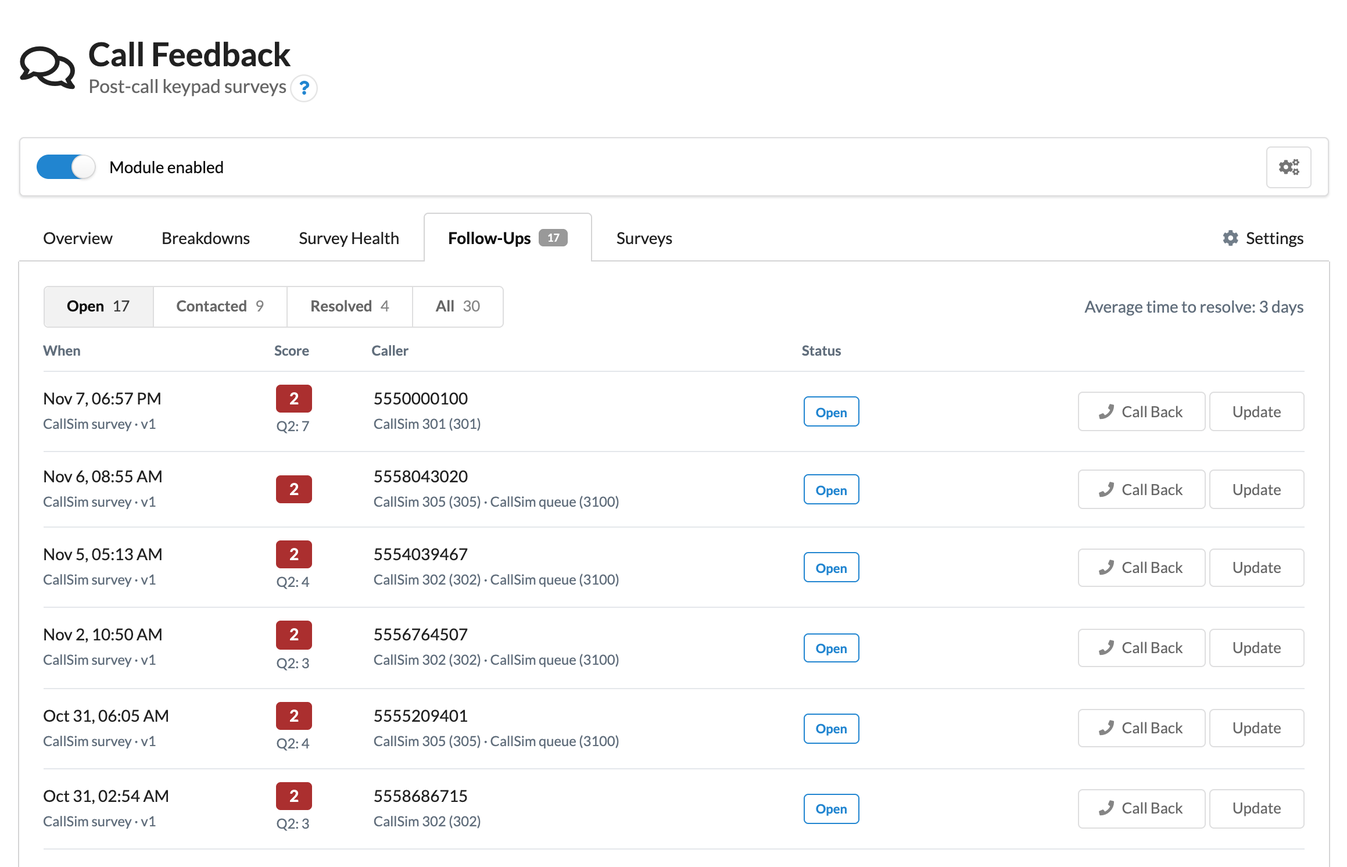
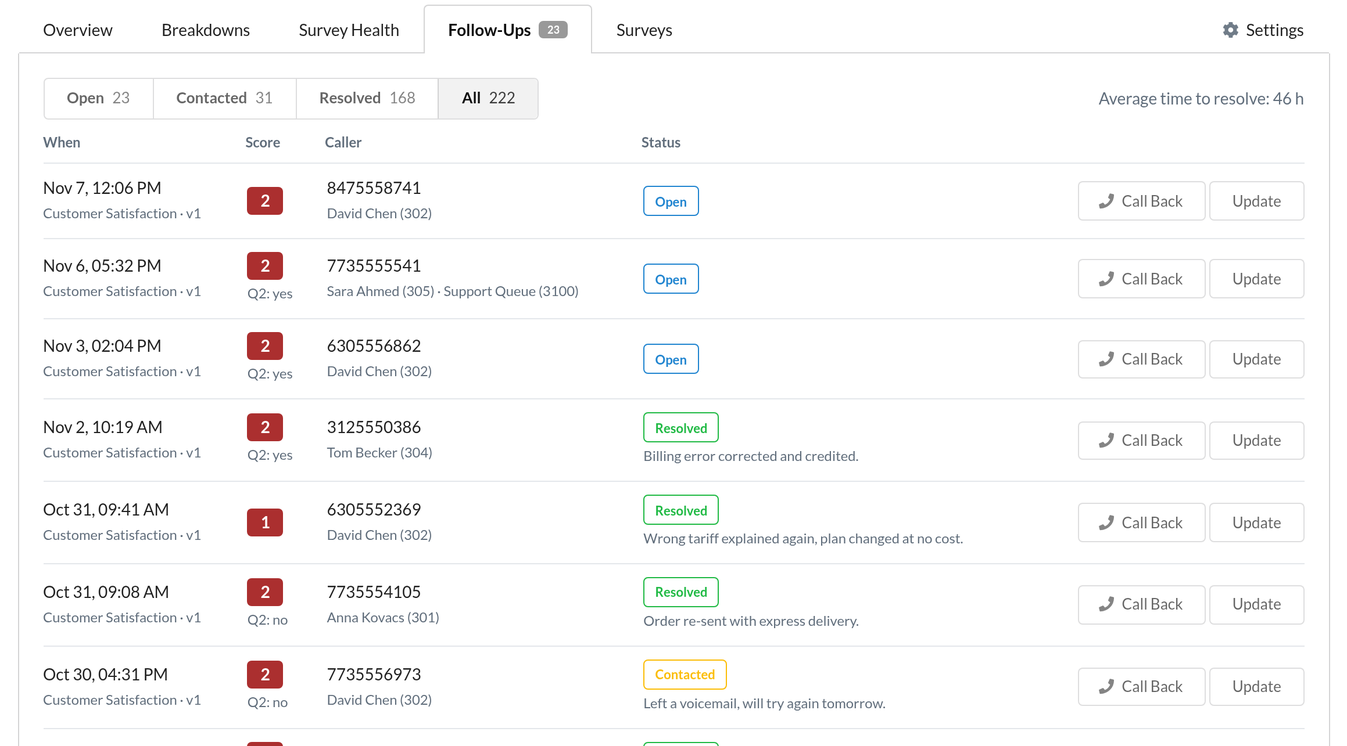
Refresh README screenshots and copy; tidy follow-up dialog details
The README screenshots came from the test bench: harness names such as
"CallSim 301" and "CallSim survey", a half-finished "Testing Survey",
day-first dates beside month-first chart labels, follow-ups at 3 a.m.,
an empty Settings form, and an editor showing a greyed-out live version
with custom prompts. They did not show the built-in prompts, the
templates or the play buttons at all.

Screenshots (docs/screenshots):
- Retaken on a test PBX with six months of simulated calls under
  made-up agent, queue and line names, during business hours, with a
  score that improves over time, so the Overview shows its change
  against the previous period.
- Taken in a browser set to US English, so dates read month first
  like the chart labels.
- All but the Overview start at the tab bar, as in the Call Insights
  README, so the grid shows each tab's content rather than the page
  header repeated eight times.
- Survey Health now includes the calls-not-surveyed-by-rule table;
  Follow-Ups shows every status with notes; Settings shows example
  alert addresses, call-back prefixes, excluded numbers and the
  delete-a-number section.
- The editor shot is a draft made from the NPS template with the
  prompt menu open, showing a play button on each built-in prompt.
- New: new-survey.png, the New Survey form with its templates.

README:
- New "What the caller hears" section quoting the built-in English
  prompts of the CSAT template, plus what happens on a wrong key or a
[…]

diff --git a/public/assets/js/src/call-feedback.js b/public/assets/js/src/call-feedback.js
@@ -148,7 +148,8 @@ const languageLabel = (l) => (LANGUAGES[l] ? label(LANGUAGES[l]) : l);
 const problemLabel = (key) => t(key, PROBLEMS[key] || key);
 /** The admin cabinet's language, which the page sets on <html>; dates and numbers follow it, not the browser's. */
 const LOCALE = document.documentElement.lang || undefined;
-const dateTime = (epoch) => (epoch ? new Date(epoch * 1000).toLocaleString(LOCALE) : '—');
+/** "6 Nov 2026, 14:05": the list's format with the year, for the follow-up dialog. */
+const dateTime = (epoch) => (epoch ? new Date(epoch * 1000).toLocaleString(LOCALE, { day: 'numeric', month: 'short', year: 'numeric', hour: '2-digit', minute: '2-digit' }) : '—');
 /** "6 Nov, 14:05": short enough for a table column. */
 const shortDateTime = (epoch) => (epoch ? new Date(epoch * 1000).toLocaleString(LOCALE, { day: 'numeric', month: 'short', hour: '2-digit', minute: '2-digit' }) : '—');
 const shortDate = (iso) => new Date(`${iso}T00:00:00`).toLocaleDateString(LOCALE, { day: 'numeric', month: 'short' });
@@ -828,11 +829,14 @@ function testCallList(data) {
         el('td', { text: shortDateTime(c.ended_at) }),
         el('td', { text: c.caller_num || '' }),
         el('td', { text: Object.keys(c.answers).length === 0 ? t('cf_NoKeys', 'No keys pressed')
-          : Object.keys(c.answers).sort().map((pos) => `${t('cf_Q', 'Q')}${pos}: ${answerText(questions[pos], c.answers[pos])}`).join(' · ') })))));
+          : Object.keys(c.answers).sort().map((pos) => answerPart((questions[pos] || {}).scale, pos, answerText(questions[pos], c.answers[pos]))).join(' · ') })))));
 }
 
 /** A follow-up's answer to one question, with yes/no shown as words. */
 const followAnswer = (f, pos) => answerText({ scale: (f.scales || {})[pos] }, f.answers[pos]);
+
+/** "NPS: 7" for a scored question, "Q2: yes" for a yes/no one. */
+const answerPart = (scale, pos, text) => `${METRICS[scale] ? metricName(scale) : `${t('cf_Q', 'Q')}${pos}`}: ${text}`;
 
 function answerText(question, value) {
   if (question && question.scale === 'yesno') return value === 1 ? t('cf_Yes', 'yes') : t('cf_No', 'no');
@@ -1042,7 +1046,7 @@ function loadSettings() {
           el('tbody', {}, data.exclusions.map((x) => el('tr', {},
             el('td', { text: x.number }),
             el('td', { class: 'cf-muted', text: x.note || '' }),
-            el('td', { class: 'cf-muted cf-nowrap', text: x.created_at ? new Date(x.created_at * 1000).toLocaleDateString(LOCALE) : '' }),
+            el('td', { class: 'cf-muted cf-nowrap', text: x.created_at ? new Date(x.created_at * 1000).toLocaleDateString(LOCALE, { day: 'numeric', month: 'short', year: 'numeric' }) : '' }),
             el('td', { class: 'cf-num' }, el('button', { class: 'ui basic mini button', type: 'button', text: t('cf_Remove', 'Remove'),
               onclick: () => post('removeExclusion', { id: x.id }).then(() => loadSettings(),
                 (xhr) => message(exclusionsResult, 'negative', saveFailed(xhr))) }))))))));
@@ -1481,7 +1485,7 @@ function loadFollowUps(page = 1) {
       return;
     }
     const rows = data.rows.map((f) => {
-      const others = Object.keys(f.answers).filter((pos) => pos !== '1').sort().map((pos) => `${t('cf_Q', 'Q')}${pos}: ${followAnswer(f, pos)}`).join(' · ');
+      const others = Object.keys(f.answers).filter((pos) => pos !== '1').sort().map((pos) => answerPart((f.scales || {})[pos], pos, followAnswer(f, pos))).join(' · ');
       const who = [f.agent ? nameOf('agent', f.agent) : '', f.queue ? nameOf('queue', f.queue) : ''].filter(Boolean).join(' · ');
       return el('tr', {},
         el('td', {}, el('div', { class: 'cf-nowrap', text: shortDateTime(f.ended_at) }), el('div', { class: 'cf-sub-line', text: `${f.survey_name} · ${t('cf_VersionShort', 'v')}${f.survey_version}` })),
@@ -1514,7 +1518,9 @@ function callBackSection(f) {
   if (f.callback === 'none') return el('p', { class: 'cf-muted', text: t('cf_CallBackNoNumberShort', 'No number to call back.') });
   const result = el('div');
   const extensions = extensionOptions();
-  const ext = select('cf-cb-ext', extensions, extensions.length ? extensions[0][0] : '');
+  // The agent who took the call rings first: they know the customer.
+  const first = extensions.some(([number]) => number === f.agent) ? f.agent : (extensions.length ? extensions[0][0] : '');
+  const ext = select('cf-cb-ext', extensions, first);
   const typed = f.callback === 'typed' ? el('input', { type: 'text', id: 'cf-cb-typed', maxlength: '40', autocomplete: 'off' }) : null;
   const go = () => {
     const extLabel = ext.selectedOptions[0] ? ext.selectedOptions[0].textContent : ext.value;
@@ -1539,7 +1545,7 @@ function openFollowUp(f, page, focusCallBack) {
   state.followUp = { f, page };
   const fact = (term, value) => (value ? [el('dt', { text: term }), el('dd', { text: value })] : null);
   const answers = Object.keys(f.answers).sort().map((pos) => (pos === '1'
-    ? `${metricName(f.scale)}: ${f.answers[pos]}` : `${t('cf_Q', 'Q')}${pos}: ${followAnswer(f, pos)}`)).join(' · ');
+    ? `${metricName(f.scale)}: ${f.answers[pos]}` : answerPart((f.scales || {})[pos], pos, followAnswer(f, pos)))).join(' · ');
   const statusResult = el('div', { id: 'cf-modal-result' });
   $id('cf-modal-title').textContent = sub(t('cf_FollowUpTitle', 'Follow-Up: {caller}'), { caller: f.caller_num || t('cf_Withheld', 'Withheld') });
   fill($id('cf-modal-content'),

diff --git a/public/assets/js/call-feedback.js b/public/assets/js/call-feedback.js
@@ -117,7 +117,7 @@
   var languageLabel = (l) => LANGUAGES[l] ? label(LANGUAGES[l]) : l;
   var problemLabel = (key) => t(key, PROBLEMS[key] || key);
   var LOCALE = document.documentElement.lang || void 0;
-  var dateTime = (epoch) => epoch ? new Date(epoch * 1e3).toLocaleString(LOCALE) : "\u2014";
+  var dateTime = (epoch) => epoch ? new Date(epoch * 1e3).toLocaleString(LOCALE, { day: "numeric", month: "short", year: "numeric", hour: "2-digit", minute: "2-digit" }) : "\u2014";
   var shortDateTime = (epoch) => epoch ? new Date(epoch * 1e3).toLocaleString(LOCALE, { day: "numeric", month: "short", hour: "2-digit", minute: "2-digit" }) : "\u2014";
   var shortDate = (iso) => (/* @__PURE__ */ new Date(`${iso}T00:00:00`)).toLocaleDateString(LOCALE, { day: "numeric", month: "short" });
   var count = (n) => Number(n).toLocaleString(LOCALE);
@@ -851,11 +851,12 @@
         {},
         el("td", { text: shortDateTime(c.ended_at) }),
         el("td", { text: c.caller_num || "" }),
-        el("td", { text: Object.keys(c.answers).length === 0 ? t("cf_NoKeys", "No keys pressed") : Object.keys(c.answers).sort().map((pos) => `${t("cf_Q", "Q")}${pos}: ${answerText(questions[pos], c.answers[pos])}`).join(" \xB7 ") })
+        el("td", { text: Object.keys(c.answers).length === 0 ? t("cf_NoKeys", "No keys pressed") : Object.keys(c.answers).sort().map((pos) => answerPart((questions[pos] || {}).scale, pos, answerText(questions[pos], c.answers[pos]))).join(" \xB7 ") })
       ))
     ));
   }
   var followAnswer = (f, pos) => answerText({ scale: (f.scales || {})[pos] }, f.answers[pos]);
+  var answerPart = (scale, pos, text) => `${METRICS[scale] ? metricName(scale) : `${t("cf_Q", "Q")}${pos}`}: ${text}`;
   function answerText(question, value) {
     if (question && question.scale === "yesno") return value === 1 ? t("cf_Yes", "yes") : t("cf_No", "no");
     return String(value);
@@ -1146,7 +1147,7 @@
             {},
             el("td", { text: x.number }),
             el("td", { class: "cf-muted", text: x.note || "" }),
-            el("td", { class: "cf-muted cf-nowrap", text: x.created_at ? new Date(x.created_at * 1e3).toLocaleDateString(LOCALE) : "" }),
+            el("td", { class: "cf-muted cf-nowrap", text: x.created_at ? new Date(x.created_at * 1e3).toLocaleDateString(LOCALE, { day: "numeric", month: "short", year: "numeric" }) : "" }),
             el("td", { class: "cf-num" }, el("button", {
               class: "ui basic mini button",
               type: "button",
@@ -1672,7 +1673,7 @@
       }
       const rows = data.rows.map((f) => {
         var _a;
-        const others = Object.keys(f.answers).filter((pos) => pos !== "1").sort().map((pos) => `${t("cf_Q", "Q")}${pos}: ${followAnswer(f, pos)}`).join(" \xB7 ");
+        const others = Object.keys(f.answers).filter((pos) => pos !== "1").sort().map((pos) => answerPart((f.scales || {})[pos], pos, followAnswer(f, pos))).join(" \xB7 ");
         const who = [f.agent ? nameOf("agent", f.agent) : "", f.queue ? nameOf("queue", f.queue) : ""].filter(Boolean).join(" \xB7 ");
         return el(
           "tr",
@@ -1731,7 +1732,8 @@
     if (f.callback === "none") return el("p", { class: "cf-muted", text: t("cf_CallBackNoNumberShort", "No number to call back.") });
     const result = el("div");
     const extensions = extensionOptions();
-    const ext = select("cf-cb-ext", extensions, extensions.length ? extensions[0][0] : "");
+    const first = extensions.some(([number]) => number === f.agent) ? f.agent : extensions.length ? extensions[0][0] : "";
+    const ext = select("cf-cb-ext", extensions, first);
     const typed = f.callback === "typed" ? el("input", { type: "text", id: "cf-cb-typed", maxlength: "40", autocomplete: "off" }) : null;
     const go = () => {
       const extLabel = ext.selectedOptions[0] ? ext.selectedOptions[0].textContent : ext.value;
@@ -1766,7 +1768,7 @@
   function openFollowUp(f, page, focusCallBack) {
     state.followUp = { f, page };
     const fact = (term, value) => value ? [el("dt", { text: term }), el("dd", { text: value })] : null;
-    const answers = Object.keys(f.answers).sort().map((pos) => pos === "1" ? `${metricName(f.scale)}: ${f.answers[pos]}` : `${t("cf_Q", "Q")}${pos}: ${followAnswer(f, pos)}`).join(" \xB7 ");
+    const answers = Object.keys(f.answers).sort().map((pos) => pos === "1" ? `${metricName(f.scale)}: ${f.answers[pos]}` : answerPart((f.scales || {})[pos], pos, followAnswer(f, pos))).join(" \xB7 ");
     const statusResult = el("div", { id: "cf-modal-result" });
     $id("cf-modal-title").textContent = sub(t("cf_FollowUpTitle", "Follow-Up: {caller}"), { caller: f.caller_num || t("cf_Withheld", "Withheld") });
     fill(

diff --git a/README.md b/README.md
@@ -6,58 +6,78 @@ A MikoPBX extension module that asks your callers how the call went. When the ag
 
 > **Status: in development, not released yet.** It works on MikoPBX 2026.6.34 and is tested with real calls, but it isn't ready for production use. Releases will be on the [Releases page](https://github.com/eneuen/ModuleCallFeedback/releases), and what changes in each version is in [CHANGELOG.md](CHANGELOG.md).
 
-![The Overview tab: the CSAT score, response and completion rates, open follow-ups, and the score over time](docs/screenshots/overview.png)
+![The Overview tab: the CSAT score and its change from the previous period, the response rate, the share of issues resolved, open follow-ups, and the score by week](docs/screenshots/overview.png)
 
 ## Features
 
-- **Surveys** on chosen incoming and outgoing routes: up to three questions on fixed scales (CSAT, NPS, CES, yes/no), built-in English and Russian prompts or your own recordings, and rules for minimum talk time, days and hours, the share of calls to survey and how often the same number is asked. A test call plays the survey to an extension before it goes live.
+- **Surveys** on chosen incoming and outgoing routes: up to three questions on fixed scales (CSAT, NPS, CES, yes/no), and rules for minimum talk time, days and hours, the share of calls to survey and how often the same number is asked. A test call plays the survey to an extension before it goes live.
+- **Prompts included:** recorded prompts in English and Russian for the intro, the CSAT, NPS and CES questions, "was your issue resolved?", an invalid key and a thank-you, so there is nothing to record to get started. Your own recordings from **Sound files** work too.
+- **Listen before you choose:** every prompt in the survey editor has a play button, in the menu and beside it, so you can hear a prompt in the browser before choosing it.
 - **Results:** the headline score with its change from the previous period, response and resolution rates, the score over time, and the score by agent, queue, line, direction, hour, weekday, time to answer or talk time. Scores stay hidden until a group has enough responses.
 - **Survey health:** how many eligible calls were surveyed, how many callers reached the end, the question where most of them leave, and how many calls each rule left out.
-- **Follow-ups:** a low score opens a case with an email alert. Cases have a status and a note, and a call-back rings an agent's extension and then the customer, with safeguards against calling expensive numbers.
+- **Follow-ups:** a low score opens a case with an email alert. Cases have a status and a note, and a call-back rings the agent who took the call (or another extension) and then the customer, with safeguards against calling expensive numbers.
 - **Versions:** once a survey is live its wording is fixed, so results stay comparable. Changing it means a new version, and versions are never averaged together.
 - **Exports:** CSV of any results table, PNG of any chart, and an optional daily or weekly summary email.
-- **Ready to try:** a new install starts with an example survey that uses the built-in prompts, so you can hear a survey on your own phone a minute after installing. New surveys can start from the same kind of template: CSAT, NPS or CES, each followed by "was your issue resolved?".
+- **Templates:** a new install starts with an example survey, so you can hear a survey on your own phone a minute after installing. New surveys can start from a template too: CSAT, NPS or CES, each followed by "was your issue resolved?", with the prompts already chosen.
 - **Languages:** English and Russian, following the admin cabinet's language. Each survey plays its prompts in English or Russian.
+
+## What the caller hears
+
+With the CSAT template and the built-in English prompts, once the agent hangs up:
+
+> Thank you for calling. Please stay on the line for a short survey about your call.
+>
+> How satisfied were you with this call? Press 1 for very dissatisfied, up to 5 for very satisfied.
+>
+> Was your issue resolved? Press 1 for yes, or 2 for no.
+>
+> Thank you for your feedback. Goodbye.
+
+A wrong key plays "Sorry, that key is not valid." and asks again. The caller can hang up at any point; the answers given so far are kept. The NPS template asks for 0 to 10 ("for 10, press 1 then 0"), and the CES template asks how easy it was to get what they needed.
 
 ## Screenshots
 
-The screenshots show a test PBX with simulated calls.
+The screenshots show a test PBX with six months of simulated calls; the names and numbers are made up.
 
 <table>
   <tr>
     <td width="50%" valign="top">
-      <a href="docs/screenshots/survey-health.png"><img src="docs/screenshots/survey-health.png" alt="Survey Health: eligible calls, share surveyed, share reaching the end, and where callers leave the survey"></a>
-      <br><b>Survey Health.</b> How many eligible calls were surveyed, how far callers got, and the question most of them leave at.
-    </td>
-    <td width="50%" valign="top">
       <a href="docs/screenshots/breakdowns.png"><img src="docs/screenshots/breakdowns.png" alt="Breakdowns: the CSAT score, average and responses per agent"></a>
       <br><b>Breakdowns.</b> The score per agent, queue, line, direction, hour, weekday, time to answer or talk time.
+    </td>
+    <td width="50%" valign="top">
+      <a href="docs/screenshots/survey-health.png"><img src="docs/screenshots/survey-health.png" alt="Survey Health: eligible calls, share surveyed, share reaching the end, where callers leave, and calls not surveyed by rule"></a>
+      <br><b>Survey Health.</b> How many eligible calls were surveyed, how far callers got, the question most of them leave at, and how many calls each rule left out.
     </td>
   </tr>
   <tr>
     <td width="50%" valign="top">
-      <a href="docs/screenshots/follow-ups.png"><img src="docs/screenshots/follow-ups.png" alt="Follow-Ups: low-scoring calls with the score, caller, agent, queue and status"></a>
-      <br><b>Follow-Ups.</b> Every call with a low score, filtered by status, ready to call back or update.
+      <a href="docs/screenshots/follow-ups.png"><img src="docs/screenshots/follow-ups.png" alt="Follow-Ups: low-scoring calls with the score, caller, agent, queue, status and note"></a>
+      <br><b>Follow-Ups.</b> Every call with a low score, with its status and note, filtered by status, ready to call back or update.
     </td>
     <td width="50%" valign="top">
-      <a href="docs/screenshots/follow-up-dialog.png"><img src="docs/screenshots/follow-up-dialog.png" alt="A follow-up: the call's details, the call-back controls, and the status and note"></a>
-      <br><b>A follow-up.</b> The call's answers, agent and queue; a call-back through your outgoing routes; and the case's status and note.
+      <a href="docs/screenshots/follow-up-dialog.png"><img src="docs/screenshots/follow-up-dialog.png" alt="A follow-up: the call's answers and agent, earlier call-backs, the call-back controls, and the status and note"></a>
+      <br><b>A follow-up.</b> The call's answers and agent, earlier call-backs, a call-back that rings the agent first, and the case's status and note.
     </td>
   </tr>
   <tr>
     <td width="50%" valign="top">
       <a href="docs/screenshots/surveys.png"><img src="docs/screenshots/surveys.png" alt="Surveys: each survey with its status, routes and responses in the last 7 days"></a>
-      <br><b>Surveys.</b> Each survey with its status, the routes it runs on, and how many callers answered in the last 7 days.
+      <br><b>Surveys.</b> Each survey with its status, what it still needs before it can go live, the routes it runs on, and how many callers answered in the last 7 days.
     </td>
     <td width="50%" valign="top">
-      <a href="docs/screenshots/settings.png"><img src="docs/screenshots/settings.png" alt="Settings: follow-up thresholds, alert and summary emails, call-back prefixes and limits"></a>
-      <br><b>Settings.</b> The scores that open a follow-up, alert and summary emails, one-click call-back prefixes, and limits.
+      <a href="docs/screenshots/new-survey.png"><img src="docs/screenshots/new-survey.png" alt="New Survey: start from a CSAT, NPS or CES template or a blank survey, then a name and language"></a>
+      <br><b>New Survey.</b> Start from a template with the built-in prompts already chosen, or from a blank survey.
     </td>
   </tr>
   <tr>
-    <td colspan="2" valign="top">
-      <a href="docs/screenshots/survey-editor.png"><img src="docs/screenshots/survey-editor.png" alt="The survey editor: name, language, prompts and questions of a live survey version"></a>
-      <br><b>The survey editor.</b> Prompts and questions, then the rules, routes and a test call. A live version's wording is fixed; New Version starts a draft to change it.
+    <td width="50%" valign="top">
+      <a href="docs/screenshots/survey-editor.png"><img src="docs/screenshots/survey-editor.png" alt="The survey editor: a draft from the NPS template, with the prompt menu open and a play button on every prompt"></a>
+      <br><b>The survey editor.</b> A draft from the NPS template. Every prompt has a play button, in the menu and beside it; the box at the top lists what's left before it can go live.
+    </td>
+    <td width="50%" valign="top">
+      <a href="docs/screenshots/settings.png"><img src="docs/screenshots/settings.png" alt="Settings: follow-up thresholds, alert and summary emails, call-back prefixes, limits, excluded numbers and deleting a number's data"></a>
+      <br><b>Settings.</b> The scores that open a follow-up, alert and summary emails, one-click call-back prefixes, limits, numbers never to survey, and deleting all data for a number.
     </td>
   </tr>
 </table>
@@ -66,8 +86,8 @@ The screenshots show a test PBX with simulated calls.
 
 - MikoPBX 2026.6.34 or later.
 - An admin account on the PBX: the module's pages are shown to admins only.
-- Nothing to record to get started: the module ships prompts in English and Russian for the intro, CSAT, NPS, CES and "was your issue resolved?" questions, an invalid key and a thank-you. To use your own wording, upload recordings under **Sound files** (MIKO's Phrase Studio module can generate them) and choose them in the survey.
 - For alert and summary emails: the PBX's mail settings, with email notifications switched on.
+- Optional, for your own wording: recordings uploaded under **Sound files**. MIKO's Phrase Studio module can generate them.
 
 A survey can't be activated while:
 

diff --git a/CHANGELOG.md b/CHANGELOG.md
@@ -18,7 +18,7 @@ Added:
 - **Results stored safely.** A hangup handler runs one AGI script after the customer has gone; it validates every value against a fixed pattern and queues the record for the module's worker, which validates it again, keeps only answers on the question's scale, and stores the session, so partial answers count. Once the call is in the CDR, the worker fills in the agent, queue, wait and talk time from its legs; sessions under the minimum talk time are kept but left out of scores, and sessions whose call never appears in the CDR are discarded.
 - **Results pages.** Overview: four cards (the headline score with its responses, average and change against the previous period; response rate; resolution rate, or completion rate when the survey has no yes/no question; open follow-ups, which opens the list), the score over time and the distribution of answers. The trend is daily on short ranges with enough responses and weekly otherwise, so it isn't mostly gaps; days or weeks with too few responses show as hollow grey points. Breakdowns by agent, queue, line, direction, hour, weekday, time to answer and talk time, with a bar for each group's score. Survey health, per version: how many eligible calls (answered by an agent on the survey's routes) were surveyed and how many surveyed callers reached the end; where callers left, as one bar and per question, with the question most callers leave at in red; and the calls each rule left unsurveyed, with calls found too short in the CDR after the survey counted under "too short". Scores are per version and appear only with enough responses (default 20). Every chart has a PNG download and every results table a CSV download. Charts use a tree-shaken Apache ECharts 6.1.0.
 - **Follow-ups.** A headline score at or below the detractor threshold (CSAT ≤ 2, NPS ≤ 6, CES ≤ 2 by default) opens a case once the call is confirmed in the CDR, and emails the chosen recipients. The list is filtered by status with a count on each filter and on the tab; a dialog shows the case and holds the call-back and the status and note, with who resolved it.
-- **Call-back from a follow-up**, with safeguards against toll fraud: it rings a chosen extension and then calls the customer through the outgoing routes; one click only for numbers starting with a prefix listed in Settings (none by default, never + or 00), any other number typed in to match; every call-back logged; the call-back itself is not surveyed.
+- **Call-back from a follow-up**, with safeguards against toll fraud: it rings an extension (the agent who took the call, unless another is chosen) and then calls the customer through the outgoing routes; one click only for numbers starting with a prefix listed in Settings (none by default, never + or 00), any other number typed in to match; every call-back logged; the call-back itself is not surveyed.
 - **Emails:** detractor alerts and an optional daily or weekly summary, as plain text in the PBX's language, through the PBX's mail settings. They never carry the caller's number.
 - **Privacy:** callers' numbers follow the PBX's call-history retention and are then removed, keeping scores; frequency-cap keys never outlive it; "delete all data for a number"; uninstalling removes the AGI link and astdb keys the core leaves behind. No audio is recorded.
 - **Security:** admin-only pages with the role checked in the module; writes need an AJAX POST with the admin's token; nothing typed by an admin or sent by a caller reaches the dialplan; no new AMI users, ports or outbound connections; survey contexts can't be dialled from a phone or trunk.
@@ -31,9 +31,9 @@ Added:
   - on a draft of a live survey, a note that routes are shared by all versions and a change applies to the live version on save.
 - **Settings page** in sections (Follow-Ups, Emails, Call-Backs, Results and Limits), saved with one Save button that stays off until something changes; detractor thresholds chosen as score ranges for each scale; a link to the PBX's mail settings when email notifications are off. Excluded numbers (with when each was added) and "delete all data for a number" apply at once and sit below, and the Privacy section shows how long the PBX keeps its call history, with a link to where that is set.
 - **Confirmations in the page's own dialog** (deleting a draft, stopping a survey, deleting a number's data, placing a call-back, leaving the editor with unsaved changes) rather than the browser's `confirm()`, which some browsers and embedded views never show and answer "Cancel" at once, so the action silently did nothing.
-- **Clearer feedback in the page:** each survey action says what it did (activated, archived, new version, copy) rather than "Done."; counts read naturally in both languages ("1 thing to fix", "3 things to fix"); a live survey left with no routes is marked "Not running: no routes" and explained in the editor; a test call that never arrives gives a message after 3 minutes instead of silence; an error such as a too-long date range clears once the query is valid again; follow-ups show yes/no answers as yes or no; dates and numbers follow the admin cabinet's language rather than the browser's; and the server messages an admin can meet (an invalid email, prefix or phone number, an out-of-range number, a too-long date range) are shown in the page's language. On phones, the follow-up status filter wraps and tables no longer show a stray list of column headings.
+- **Clearer feedback in the page:** each survey action says what it did (activated, archived, new version, copy) rather than "Done."; counts read naturally in both languages ("1 thing to fix", "3 things to fix"); a live survey left with no routes is marked "Not running: no routes" and explained in the editor; a test call that never arrives gives a message after 3 minutes instead of silence; an error such as a too-long date range clears once the query is valid again; follow-ups show yes/no answers as yes or no and name scored answers by their scale ("NPS: 7" rather than "Q2: 7"); the follow-up dialog's date reads like the list's, with the year ("Oct 30, 2026, 04:31 PM" rather than "10/30/2026, 4:31:52 PM"), and excluded numbers show the date they were added the same way; dates and numbers follow the admin cabinet's language rather than the browser's; and the server messages an admin can meet (an invalid email, prefix or phone number, an out-of-range number, a too-long date range) are shown in the page's language. On phones, the follow-up status filter wraps and tables no longer show a stray list of column headings.
 - **Interface in English and Russian**, styled to match the Call Insights module: the same colours, spacing, section headings with their download buttons, summary cards and quiet tables, and Title Case for English headings, tabs, buttons, menu choices and field labels, with units in brackets, such as "Minimum Talk Time (Seconds)".
-- **Documentation:** a README for people deciding whether to install the module and for admins setting it up, laid out like the Call Insights README: features, screenshots taken on a test PBX, requirements (including what stops a survey being activated), installing, updating and uninstalling, setting up a survey, how it works in plain terms, its limits, privacy and security. How a survey runs inside Asterisk moves to CONTRIBUTING.md. The screenshots are left out of release zips.
+- **Documentation:** a README for people deciding whether to install the module and for admins setting it up, laid out like the Call Insights README: features, what the caller hears with the built-in prompts, screenshots, requirements (including what stops a survey being activated), installing, updating and uninstalling, setting up a survey, how it works in plain terms, its limits, privacy and security. How a survey runs inside Asterisk moves to CONTRIBUTING.md. The screenshots show a test PBX with six months of simulated calls under made-up names, in US English, and cover every tab plus the New Survey templates, a follow-up and the prompt menu with its play buttons; all but the Overview start at the tab bar so the grid shows the content. They are left out of release zips.
 - **Results stay fast and small on a busy PBX.** The results pages read a period's surveys one at a time and keep only counts and answer values, instead of loading every survey (and, for the Overview, the previous period's too) into memory first. A year at 200 surveyed calls a day now needs 10 MB of PHP memory instead of 110 MB, close to the admin cabinet's 128 MB limit, and 1,000 a day needs 24 MB instead of 532 MB, which the cabinet would have refused; the year's Overview takes 0.16 s. `tools/benchmark` builds a year of synthetic surveys and times the page's queries; the README lists the results.
 - **Emails link to the page and name the agent.** Alert and summary emails carry the PBX's full web address (the core's `LanInterfaces::buildAdminUrl()`, as its own emails use) instead of a bare path, alerts show the agent's name with the extension, and the summary uses whole numbers as the page does and says "too few for a score" plainly. Both were sent through the PBX's mail settings to a test mail server and checked.
 - **Database versions for future updates.** The module database records its schema version (1 for this release), and `Lib/Migrations.php` runs any later numbered change once, in order and in a transaction, from the installer; a failed step stops the install. There are no steps yet.
